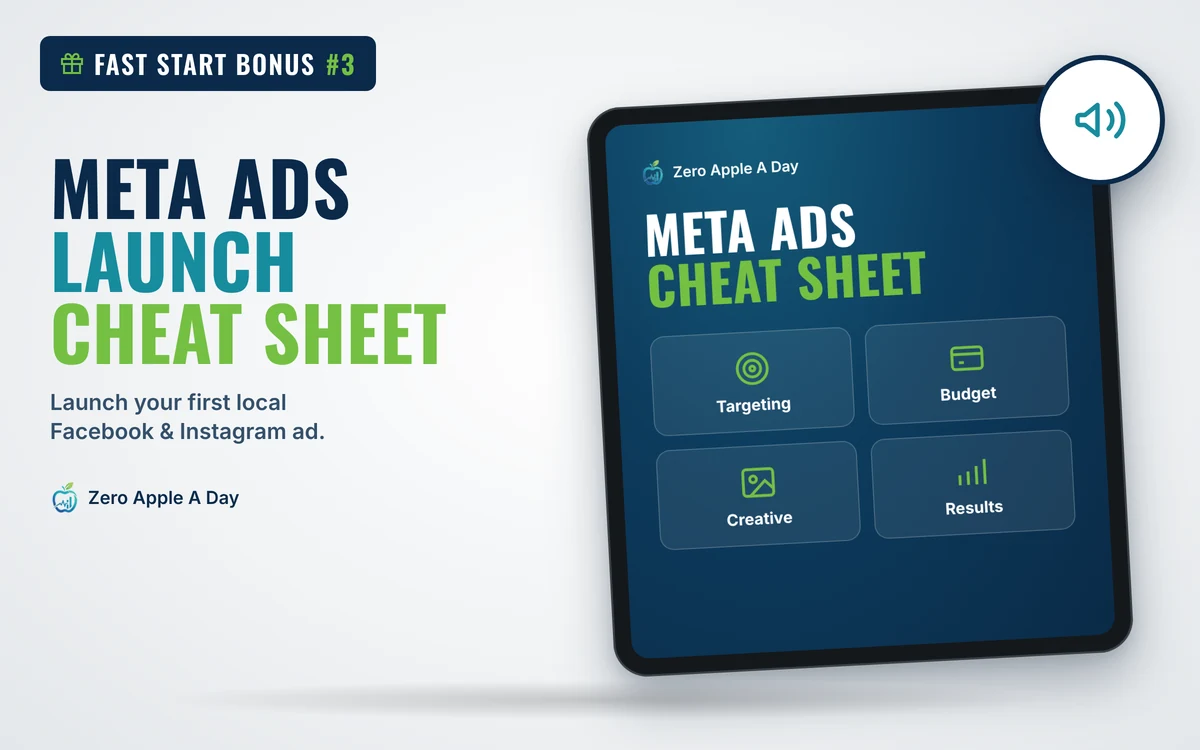
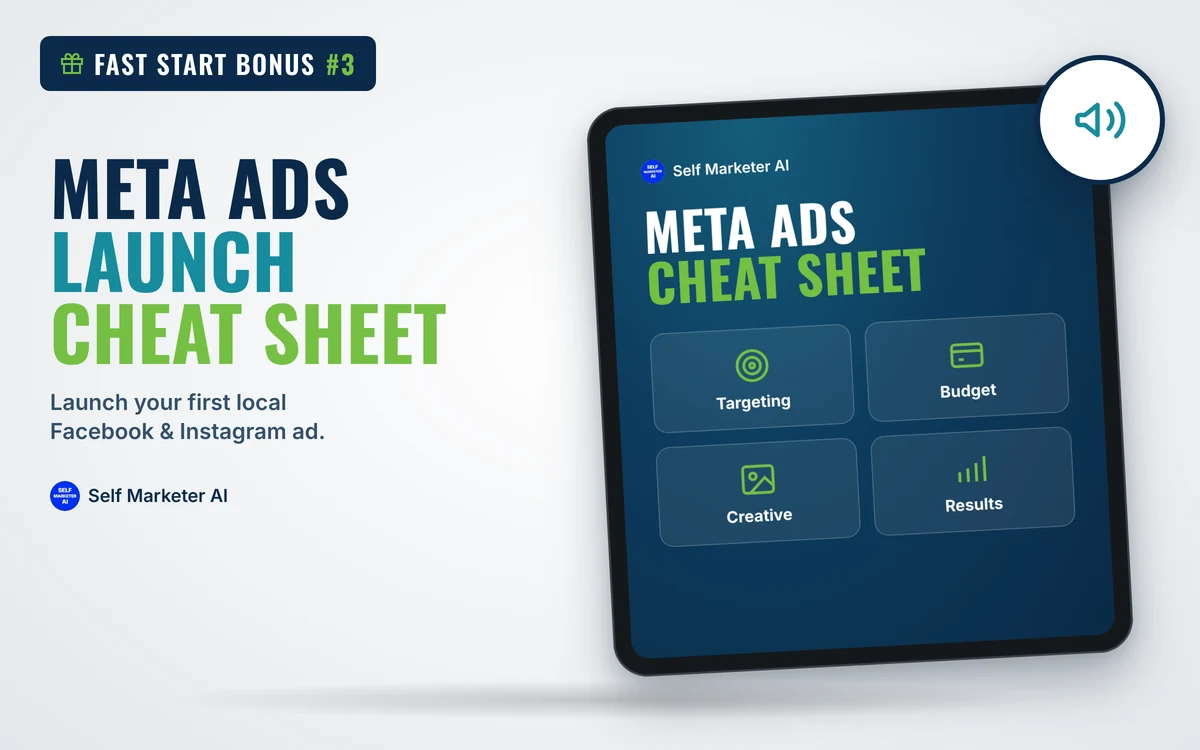
Rebrand product stack and bonus images to Self Marketer AI
Claude-Session: https://claude.ai/code/session_01DGsZ8J4AbAwL4nbS371KZV

diff --git a/src/routes/index.tsx b/src/routes/index.tsx
@@ -766,7 +766,7 @@ function TrainerSection() {
           <p className="uppercase tracking-widest text-primary font-bold text-sm">Meet Your Trainer</p>
           <h2 className="mt-2 text-4xl md:text-5xl font-black">Farhan Ali</h2>
           <p className="mt-2 text-lg font-semibold text-muted-foreground">
-            Digital Marketing Expert &amp; Founder of Zero Apple A Day
+            Digital Marketing Expert &amp; Founder of Self Marketer AI
           </p>
           <p className="mt-4 leading-relaxed">
             For 3+ years, Farhan has built client-acquisition systems for local businesses in Pakistan —
